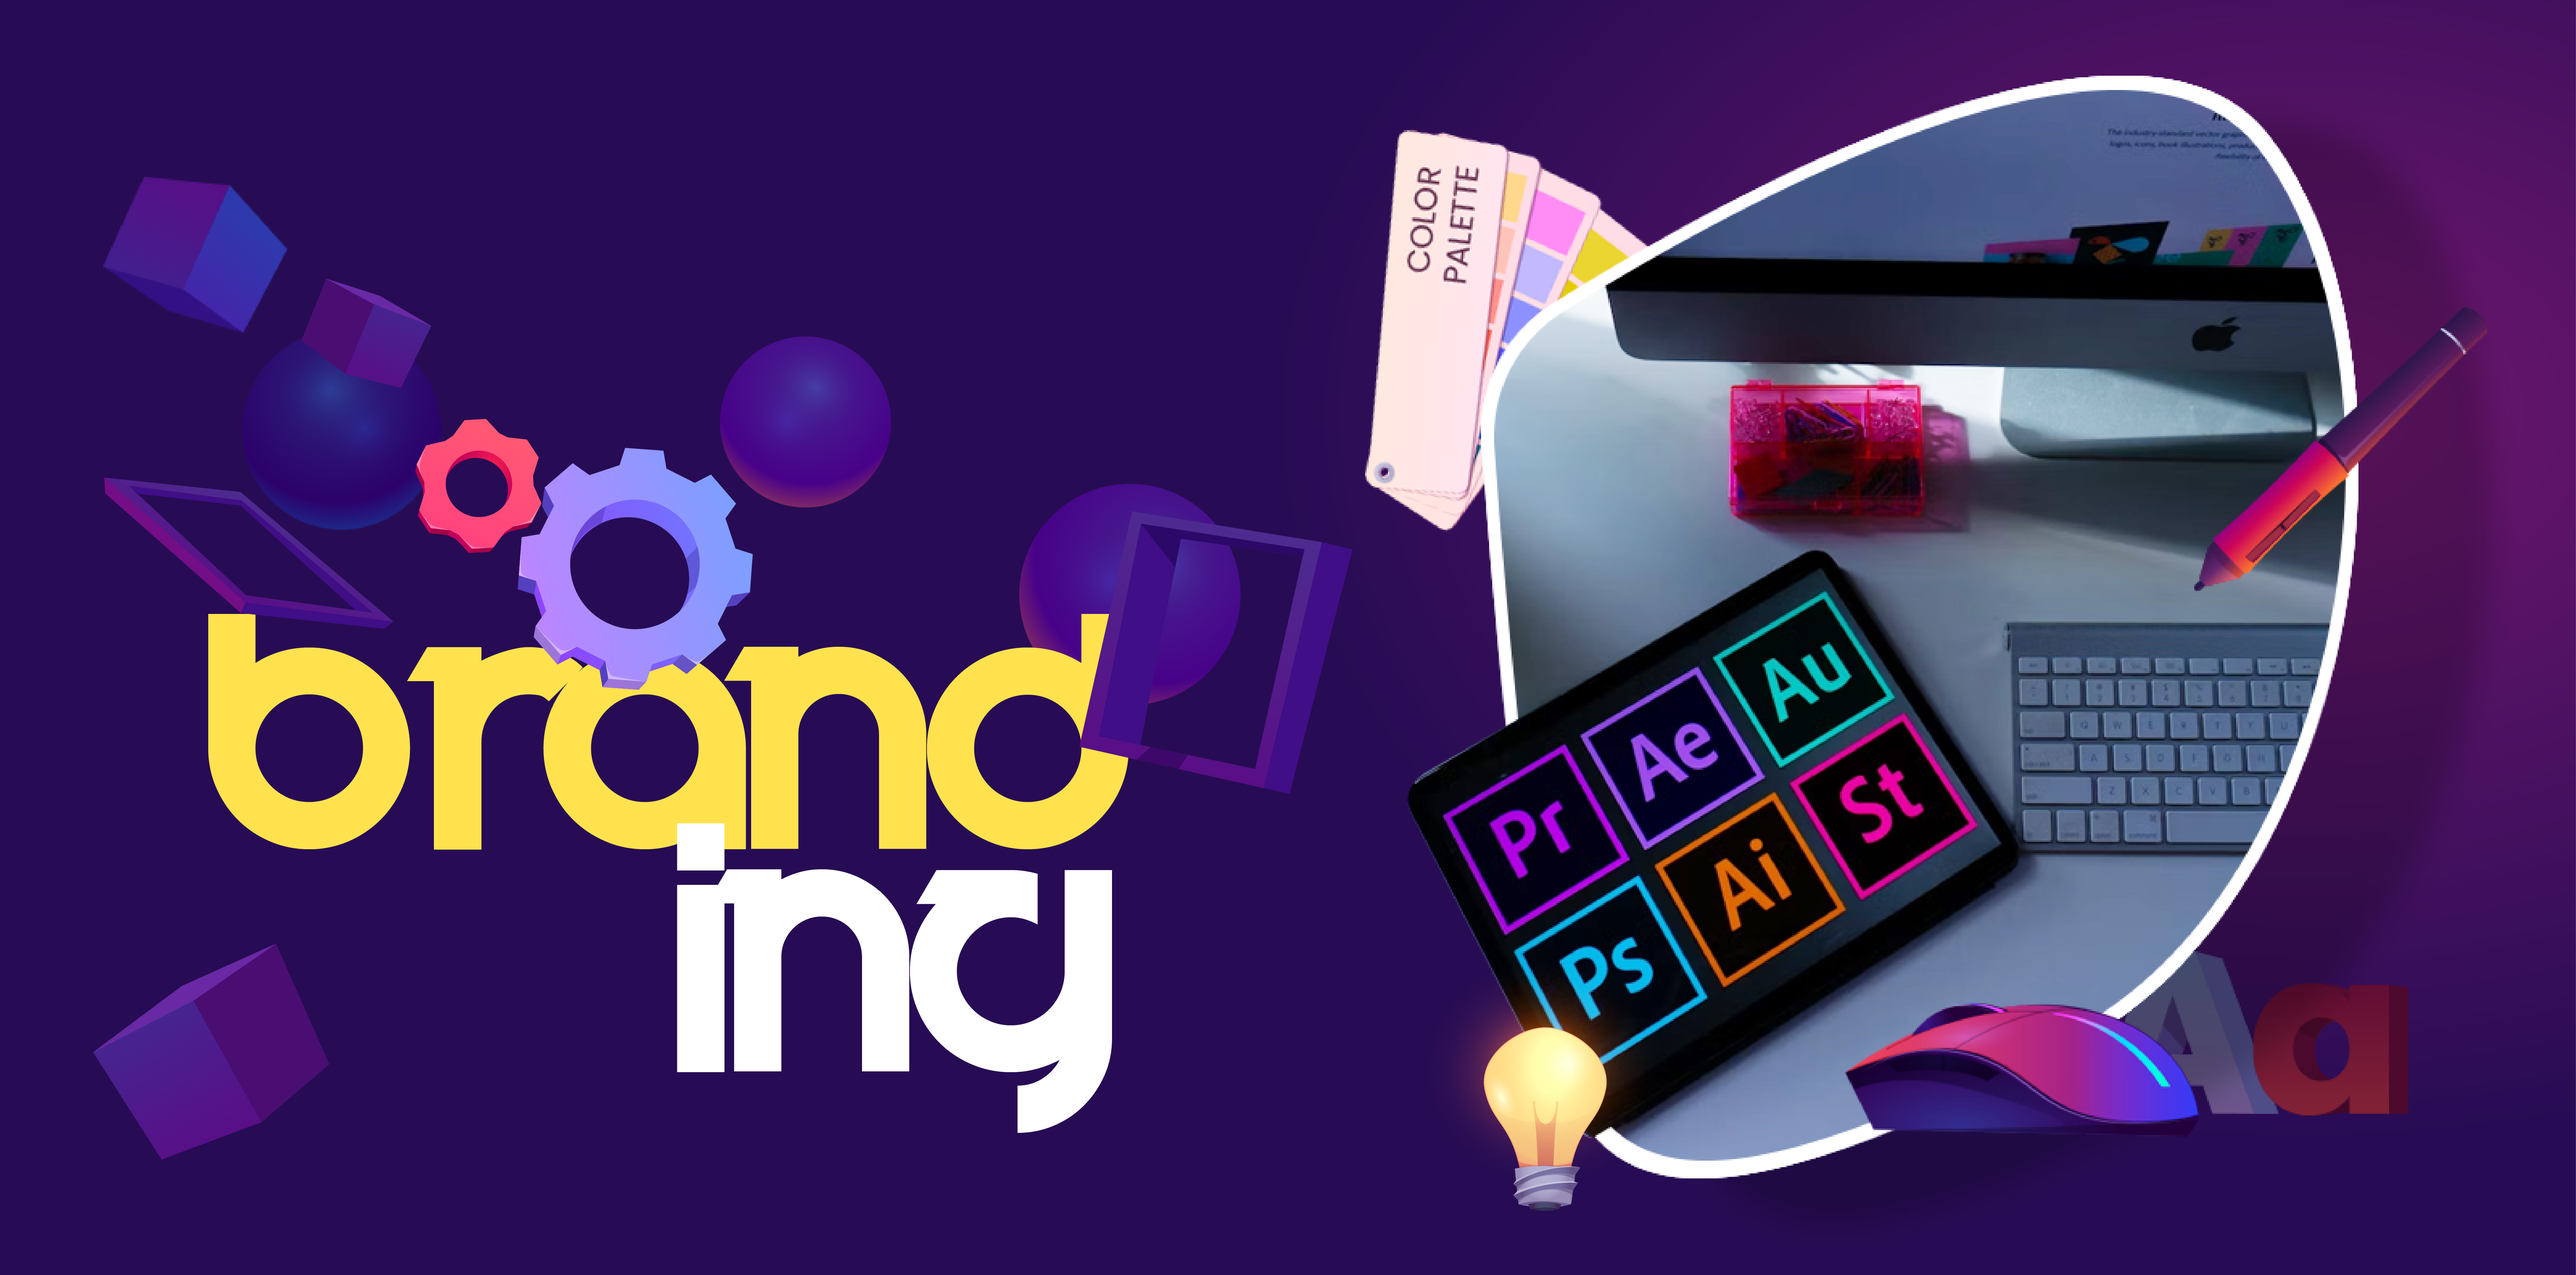
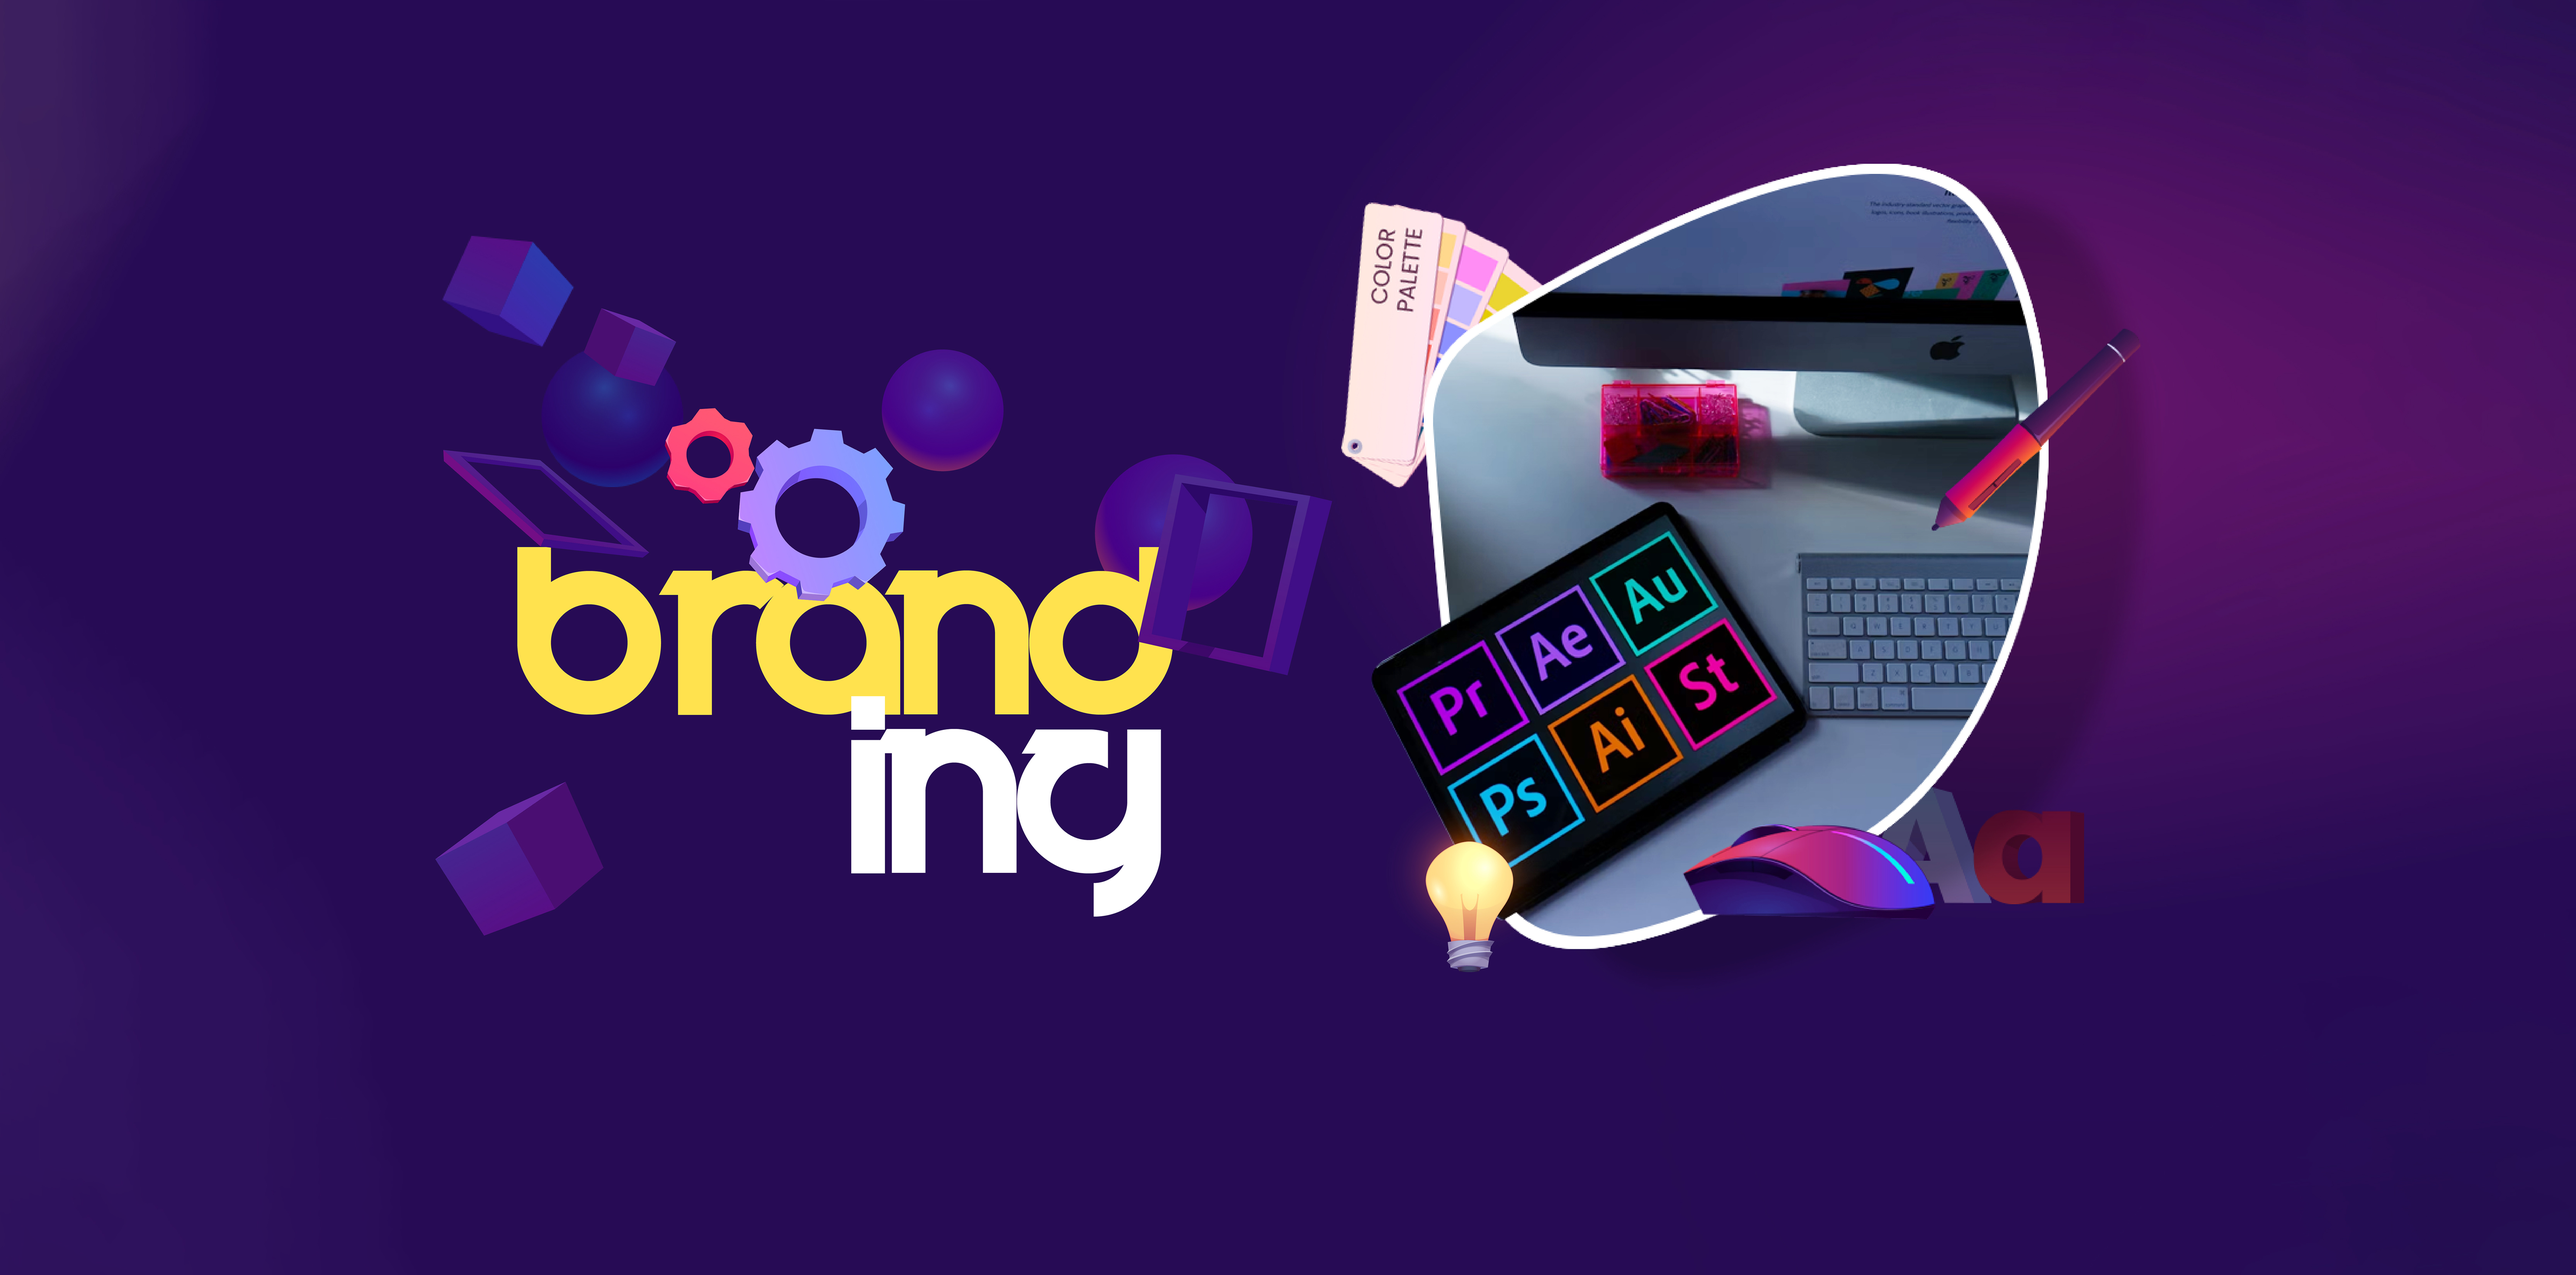
slider size changed

diff --git a/assets/css/main.css b/assets/css/main.css
@@ -11971,7 +11971,7 @@ body.tp-magic-cursor #magic-cursor {
 .tp-hero-4-thumb {
   overflow: hidden;
   position: relative;
-  width: 100%;
+  width: 95%;
   height: 755px;
 }
 @media only screen and (min-width: 992px) and (max-width: 1199px) {
@@ -11982,11 +11982,13 @@ body.tp-magic-cursor #magic-cursor {
 @media only screen and (min-width: 768px) and (max-width: 991px) {
   .tp-hero-4-thumb {
     height: 320px;
+    width: 100%;
   }
 }
 @media (max-width: 767px) {
   .tp-hero-4-thumb {
     height: 200px;
+    width: 100%;
   }
 }
 @media (max-width: 767px) {
